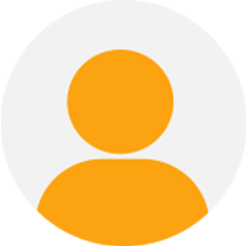
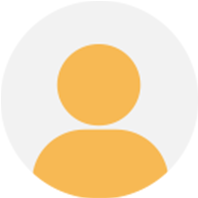
个人中心头像位置调整

diff --git a/HappyTravel/Personal/MyPersonalVC.swift b/HappyTravel/Personal/MyPersonalVC.swift
@@ -144,9 +144,9 @@ public class MyPersonalVC : UIViewController, UIImagePickerControllerDelegate, U
 //                make.height.equalTo(1)
 //                make.top.equalTo(view).offset(130)
                 make.centerX.equalTo(view)
-                make.top.equalTo(view.snp_top).offset(74)
-                make.height.equalTo(91)
-                make.width.equalTo(91)
+                make.top.equalTo(view).offset(74)
+                make.height.equalTo(77)
+                make.width.equalTo(77)
             }
         }
 
@@ -156,16 +156,16 @@ public class MyPersonalVC : UIViewController, UIImagePickerControllerDelegate, U
             headImageView!.tag = 10001
             headImageView!.backgroundColor = .clearColor()
             headImageView!.layer.masksToBounds = true
-            headImageView!.layer.cornerRadius = 82 / 2
-            headImageView!.layer.borderColor = UIColor.clearColor().CGColor
-            headImageView!.layer.borderWidth = 1
+            headImageView!.layer.cornerRadius = 67 / 2
+//            headImageView!.layer.borderColor = UIColor.clearColor().CGColor
+//            headImageView!.layer.borderWidth = 1
             headImageView?.addTarget(self, action: #selector(MyPersonalVC.setHeadImage), forControlEvents: .TouchUpInside)
             view.addSubview(headImageView!)
             headImageView!.snp_makeConstraints { (make) in
                 make.center.equalTo(starView!)
 //                make.top.equalTo(view.snp_top).offset(74)
-                make.height.equalTo(82)
-                make.width.equalTo(82)
+                make.height.equalTo(67)
+                make.width.equalTo(67)
             }
         }
         

diff --git a/HappyTravel/ViewController.swift b/HappyTravel/ViewController.swift
@@ -16,7 +16,7 @@ class ViewController: SideMenuController, FlashGuideViewControllerDelegate {
     required init?(coder aDecoder: NSCoder) {
         SideMenuController.preferences.drawing.menuButtonImage = UIImage.init(named:"nav-personal")
         SideMenuController.preferences.drawing.sidePanelPosition = .OverCenterPanelLeft
-        SideMenuController.preferences.drawing.sidePanelWidth = UIScreen.mainScreen().bounds.size.width * 0.8
+        SideMenuController.preferences.drawing.sidePanelWidth = UIScreen.mainScreen().bounds.size.width * 0.75
         SideMenuController.preferences.drawing.centerPanelShadow = true
         SideMenuController.preferences.animating.statusBarBehaviour = .ShowUnderlay
         

diff --git a/HappyTravel/Personal/FollowListVC.swift b/HappyTravel/Personal/FollowListVC.swift
@@ -42,6 +42,9 @@ class FollowListVC: UIViewController, UITableViewDelegate, UITableViewDataSource
     
     override func viewDidLoad() {
         initView()
+        //隐藏小红点
+        let viewHidden = tabBarController?.view.viewWithTag(10)
+        viewHidden?.hidden = true
     }
     
     func initView() {
